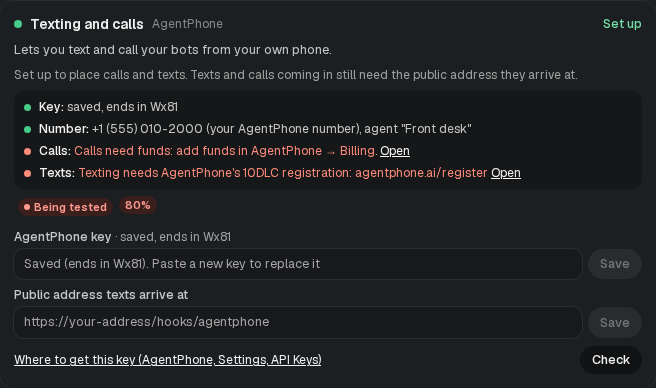
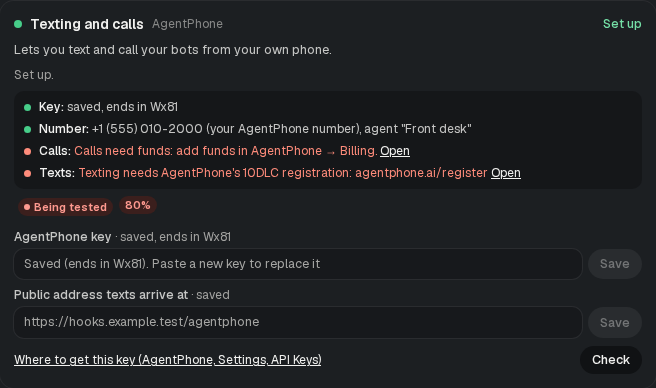
AgentPhone: own number never takes texts for the bot; call outcome written owner-only and atomically
Review of #114:
- Kevin's own AgentPhone number is never "Text or call Boppy at": saving the
  public address doesn't connect it to Bops (only a workspace line Bops sets
  up does, and Bops refuses webhooks it didn't make). Every screen says "Your
  AgentPhone number: … Boppy can call and text from it; texts to it don't
  reach Boppy yet." The `incoming` flag is gone. Tests: with
  BOPS_AGENTPHONE_HOOK_URL saved, /api/phone, /api/account and the rendered
  Email and phone and profile screens never say "text Boppy at" it.
- .data/agentphone-calls.json is written mode 0600 through a temp file and a
  rename, as the other .data files are; tested (mode, no temp file left).

Claude-Session: https://claude.ai/code/session_01Hq3U18SxM5QFaWrWzu9t4W

Changed region(s): [[0.0915, 0.1856, 0.8841, 0.2165], [0.122, 0.8041, 0.3963, 0.866], [0.3049, 0.7423, 0.3659, 0.7732]]

diff --git a/lib/bot-number.ts b/lib/bot-number.ts
@@ -15,11 +15,6 @@ export type BotNumber = {
   /** As people read it: +1 (555) 010-2000. */
   phone: string;
   whose: BotNumberWhose;
-  /**
-   * Your AgentPhone number only: whether texts sent to it reach the bot here (the public address is set in Settings,
-   * Services). Calls and texts the bot places go out from it either way.
-   */
-  incoming?: boolean;
 };
 
 export const WHOSE_WORDS: Record<BotNumberWhose, string> = {
@@ -34,10 +29,10 @@ export const prettyNumber = (n: string) => {
 };
 
 /** The rule above. `own` is the AgentPhone number found with the key (null when none was, or there's no key). */
-export function workspaceNumber(o: { line?: { phone: string } | null; mainPhone?: string | null; own?: string | null; defaultWorkspace: boolean; incoming?: boolean }): BotNumber | null {
+export function workspaceNumber(o: { line?: { phone: string } | null; mainPhone?: string | null; own?: string | null; defaultWorkspace: boolean }): BotNumber | null {
   if (o.line?.phone) return { phone: prettyNumber(o.line.phone), whose: "bops" };
   if (o.mainPhone) return { phone: prettyNumber(o.mainPhone), whose: "bops" };
-  if (o.own && o.defaultWorkspace) return { phone: prettyNumber(o.own), whose: "agentphone", incoming: !!o.incoming };
+  if (o.own && o.defaultWorkspace) return { phone: prettyNumber(o.own), whose: "agentphone" };
   return null;
 }
 
@@ -45,11 +40,12 @@ export function workspaceNumber(o: { line?: { phone: string } | null; mainPhone?
 export const numberWithWhose = (n: BotNumber) => `${n.phone}, ${WHOSE_WORDS[n.whose]}`;
 
 /**
- * How a screen says where to reach the bot (`who`, its name): "Text or call Boppy at +1 (555) 010-2000 (your
- * AgentPhone number)". Your AgentPhone number without the public address: Boppy calls and texts from it, and texts
- * to it reach Boppy once the address is set.
+ * How a screen says where to reach the bot (`who`, its name). A number Bops set up: "Text or call Boppy at +1 (555)
+ * 010-2000 (a number Bops set up)". Your own AgentPhone number is never "text Boppy at": the bot calls and texts from
+ * it, but nothing connects texts to it with Bops (only a workspace line Bops sets up does, phone.ts
+ * assignWorkspaceLine, and Bops refuses webhooks it didn't make), whatever public address is saved.
  */
 export function numberSentence(n: BotNumber, who: string) {
-  if (n.whose === "agentphone" && !n.incoming) return `${who} calls and texts from ${n.phone} (${WHOSE_WORDS.agentphone}). Texts to it reach ${who} once the public address is set in Settings → Services.`;
-  return `Text or call ${who} at ${n.phone} (${WHOSE_WORDS[n.whose]})`;
+  if (n.whose === "agentphone") return `Your AgentPhone number: ${n.phone}. ${who} can call and text from it; texts to it don't reach ${who} yet.`;
+  return `Text or call ${who} at ${n.phone} (${WHOSE_WORDS.bops})`;
 }

diff --git a/lib/server/agentphone-status.ts b/lib/server/agentphone-status.ts
@@ -11,7 +11,7 @@
  */
 
 import { createHash } from "node:crypto";
-import { mkdirSync, readFileSync, rmSync, writeFileSync } from "node:fs";
+import { mkdirSync, readFileSync, renameSync, rmSync, writeFileSync } from "node:fs";
 import { join } from "node:path";
 import type { BotNumber } from "../bot-number";
 import { cloudOn } from "./cloud";
@@ -69,10 +69,17 @@ export const noteProbe = (p: AgentPhoneProbe) => void (seen.probe = p);
 /** A real call's outcome: a 402 ("needs funds") or one that went ("working"). Kept until the next real call. */
 export const noteCalls = (state: CallsReady) => {
   seen.calls = { state, at: Date.now() };
+  // Owner-only and whole (a temp file, then renamed over it), as the other .data files are written.
+  const file = callsFile();
+  const tmp = `${file}.${process.pid}.${Date.now()}.tmp`;
   try {
-    mkdirSync(dataRoot(), { recursive: true });
-    writeFileSync(callsFile(), JSON.stringify({ state, at: seen.calls.at, key: keyHash() }));
-  } catch {}
+    mkdirSync(/*turbopackIgnore: true*/ dataRoot(), { recursive: true });
+    writeFileSync(/*turbopackIgnore: true*/ tmp, JSON.stringify({ state, at: seen.calls.at, key: keyHash() }), { mode: 0o600 });
+    renameSync(/*turbopackIgnore: true*/ tmp, file);
+  } catch {
+  } finally {
+    rmSync(/*turbopackIgnore: true*/ tmp, { force: true });
+  }
 };
 export const noteTexts = (state: TextsReady) => void (seen.texts = { state, at: Date.now() });
 export const lastProbe = () => seen.probe;

diff --git a/components/app/account.tsx b/components/app/account.tsx
@@ -1094,10 +1094,13 @@ function Reach({ info }: { info: AccountInfo }) {
                 {w.line ? (
                   <span className="flex items-center gap-1.5 text-[12.5px] text-[color:var(--ht-3a3a38)]" data-bot-number={w.line.whose ?? "bops"}>
                     <span className="text-[color:var(--ht-9a9a98)]">
-                      {w.line.whose === "agentphone" && !w.line.incoming ? `${w.line.main ?? "The main bot"} calls and texts from` : `Text or call ${w.line.main ?? "the main bot"} at`}
+                      {w.line.whose === "agentphone" ? `${w.line.main ?? "The main bot"} can call and text from` : `Text or call ${w.line.main ?? "the main bot"} at`}
                     </span>
                     <Copy text={w.line.phone} />
-                    <span className="text-[color:var(--ht-9a9a98)]">({WHOSE_WORDS[w.line.whose ?? "bops"]})</span>
+                    {/* Your own AgentPhone number never takes texts for the bot (lib/bot-number.ts numberSentence). */}
+                    <span className="text-[color:var(--ht-9a9a98)]">
+                      {w.line.whose === "agentphone" ? `(${WHOSE_WORDS.agentphone}; texts to it don't reach ${w.line.main ?? "the main bot"} yet)` : `(${WHOSE_WORDS.bops})`}
+                    </span>
                   </span>
                 ) : (
                   <span className="text-[12.5px] text-[color:var(--ht-9a9a98)]">No number yet</span>

diff --git a/components/app/bot-settings.tsx b/components/app/bot-settings.tsx
@@ -560,8 +560,8 @@ function PhoneBody({ state, bot: b, set, reach, number: shown, today, older, onO
           value={number}
           empty={W.noNumber}
         />
-        {/* Your AgentPhone number, before texts to it can reach the bot: it says so (lib/bot-number.ts). */}
-        {shown?.whose === "agentphone" && !shown.incoming && <span className="block px-4 pb-[11px] text-[12px] leading-4 text-[color:var(--ht-6b6b6b)]" data-bot-number="agentphone">{numberSentence(shown, b.name)}</span>}
+        {/* Your AgentPhone number: the bot calls and texts from it, texts to it don't reach it (lib/bot-number.ts). */}
+        {shown?.whose === "agentphone" && <span className="block px-4 pb-[11px] text-[12px] leading-4 text-[color:var(--ht-6b6b6b)]" data-bot-number="agentphone">{numberSentence(shown, b.name)}</span>}
         <LineLink key={reach} phone={reach} className="px-4 pb-[11px]" />
       </div>
       <VoicePicker state={state} bot={b} set={set} number={number} agentId={line && b.isMain ? line.agentId : b.phoneLine?.agentId} />

diff --git a/components/app/bot-panel.tsx b/components/app/bot-panel.tsx
@@ -287,7 +287,7 @@ function Details({
           value={reach ? prettyPhone(reach) : undefined}
           empty={line && main ? `Text ${main.name} at ${prettyPhone(line.phone)}: ${main.name} passes work to ${b.name}.` : "No number yet."}
         />
-        {number?.whose === "agentphone" && !number.incoming && <span className="px-4 pb-[11px] text-[12px] leading-4 text-[color:var(--ht-6b6b6b)]">{numberSentence(number, b.name)}</span>}
+        {number?.whose === "agentphone" && <span className="px-4 pb-[11px] text-[12px] leading-4 text-[color:var(--ht-6b6b6b)]">{numberSentence(number, b.name)}</span>}
         {!line && !b.phone && !number && <GetNumber bot={b} plan={plan} room={numberRoom} onUpgrade={onUpgrade} />}
         {/* Whose phone the number is linked to: the first to call or text it, then calls and texts from it count as the user. */}
         {reach && <LineLink key={reach} phone={reach} className="px-4 pb-[11px]" />}

diff --git a/app/api/account/route.ts b/app/api/account/route.ts
@@ -65,7 +65,7 @@ export async function GET() {
       return {
         id: w.id,
         name: w.name,
-        line: line ? { phone: prettyPhone(line.phone), imessage: line.type === "imessage", main: bots.find((b) => b.isMain)?.name, whose: "bops" as const } : own ? { phone: own.phone, imessage: false, main: bots.find((b) => b.isMain)?.name, whose: "agentphone" as const, incoming: own.incoming } : undefined,
+        line: line ? { phone: prettyPhone(line.phone), imessage: line.type === "imessage", main: bots.find((b) => b.isMain)?.name, whose: "bops" as const } : own ? { phone: own.phone, imessage: false, main: bots.find((b) => b.isMain)?.name, whose: "agentphone" as const } : undefined,
         bots: bots
           .sort((a, b) => Number(b.isMain) - Number(a.isMain))
           .map((b) => ({ id: b.id, name: b.name, color: b.color, isMain: b.isMain, email: b.email, phone: b.phone ? prettyPhone(b.phone) : undefined })),

diff --git a/lib/server/bot-number.ts b/lib/server/bot-number.ts
@@ -11,12 +11,11 @@ import { getState } from "./store";
  */
 export function botNumbers(state: AppState = getState()): Record<string, BotNumber | null> {
   const own = ownAgentPhoneNumber();
-  const incoming = !!process.env.BOPS_AGENTPHONE_HOOK_URL?.trim();
   const out: Record<string, BotNumber | null> = {};
   const list = state.workspaces?.length ? state.workspaces : [{ id: MAIN_WORKSPACE, line: undefined }];
   for (const w of list) {
     const main = (state.bots ?? []).find((b) => b.isMain && workspaceOf(b) === w.id);
-    out[w.id] = workspaceNumber({ line: w.line, mainPhone: main?.phone && main.phoneLine ? main.phone : null, own, defaultWorkspace: w.id === MAIN_WORKSPACE, incoming });
+    out[w.id] = workspaceNumber({ line: w.line, mainPhone: main?.phone && main.phoneLine ? main.phone : null, own, defaultWorkspace: w.id === MAIN_WORKSPACE });
   }
   return out;
 }

diff --git a/lib/account.ts b/lib/account.ts
@@ -143,7 +143,7 @@ export type AccountInfo = {
     id: string;
     name: string;
     /** The workspace's number: people text and call its main bot there. */
-    line?: { phone: string; imessage: boolean; main?: string; whose?: "bops" | "agentphone"; incoming?: boolean };
+    line?: { phone: string; imessage: boolean; main?: string; whose?: "bops" | "agentphone" };
     bots: { id: string; name: string; color: string; isMain: boolean; email?: string; phone?: string }[];
   }[];
 };
